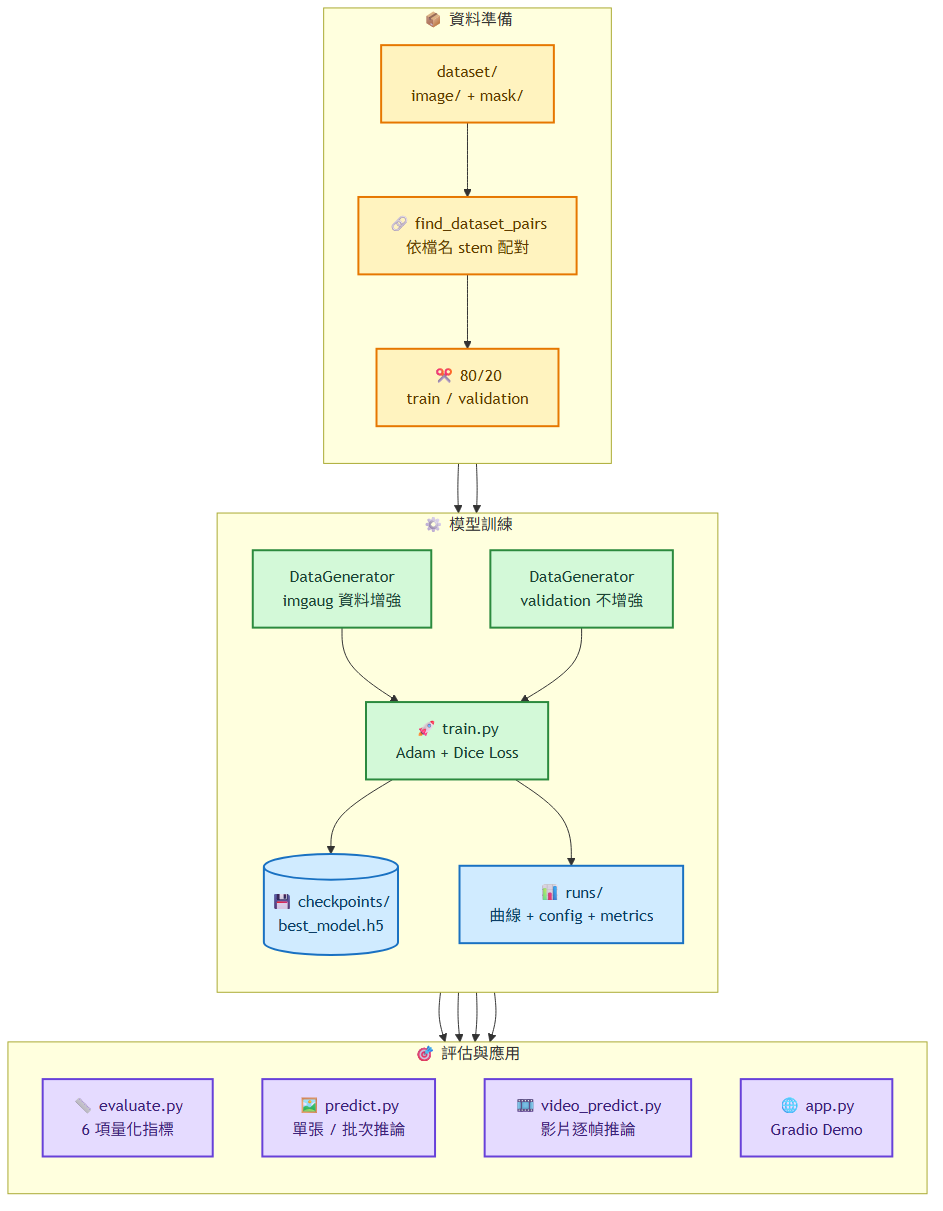
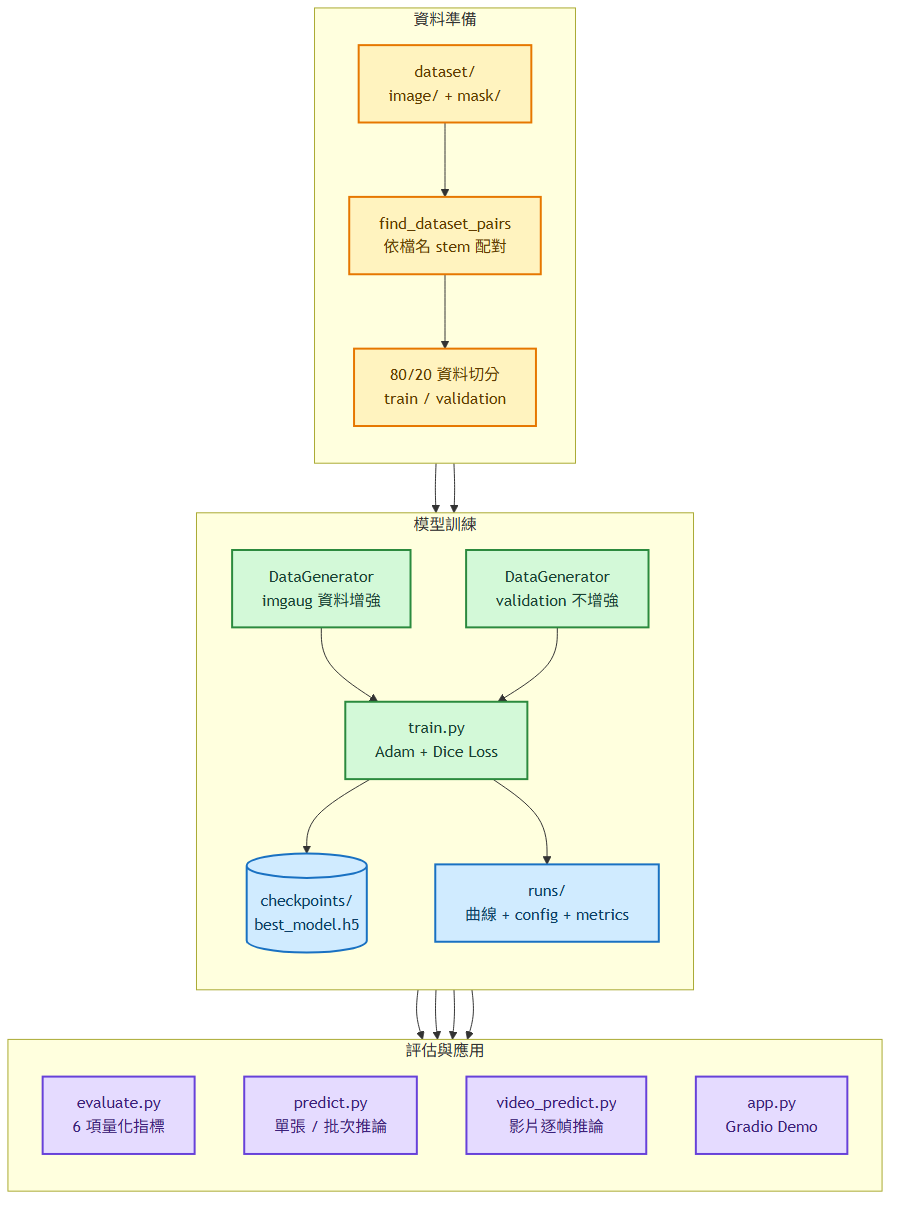
調整系統架構圖與 README 說明

diff --git a/README.md b/README.md
@@ -23,13 +23,15 @@
 
 ## 系統架構
 
+本節將系統拆成端到端工作流程與模型選擇架構，分別說明資料如何流經訓練與應用階段，以及三種模型如何共用相同的輸出介面。
+
 ### 端到端工作流程
 
 從影像與 Mask 配對開始，經過資料切分、資料增強與模型訓練，最後由同一份最佳權重支援評估、單張／批次推論、影片推論與 Gradio Demo。
 
 ![Crack Segmentation 端到端工作流程](docs/diagrams/readme_01_flowchart_project_workflow.png)
 
-[查看 Mermaid 圖源](docs/diagrams/readme_01_flowchart_project_workflow.mmd)
+[檢視 Mermaid 原始檔](docs/diagrams/readme_01_flowchart_project_workflow.mmd)
 
 ### 模型選擇架構
 
@@ -37,7 +39,7 @@
 
 ![Crack Segmentation 模型選擇架構](docs/diagrams/readme_02_flowchart_model_architecture.png)
 
-[查看 Mermaid 圖源](docs/diagrams/readme_02_flowchart_model_architecture.mmd)
+[檢視 Mermaid 原始檔](docs/diagrams/readme_02_flowchart_model_architecture.mmd)
 
 ---
 